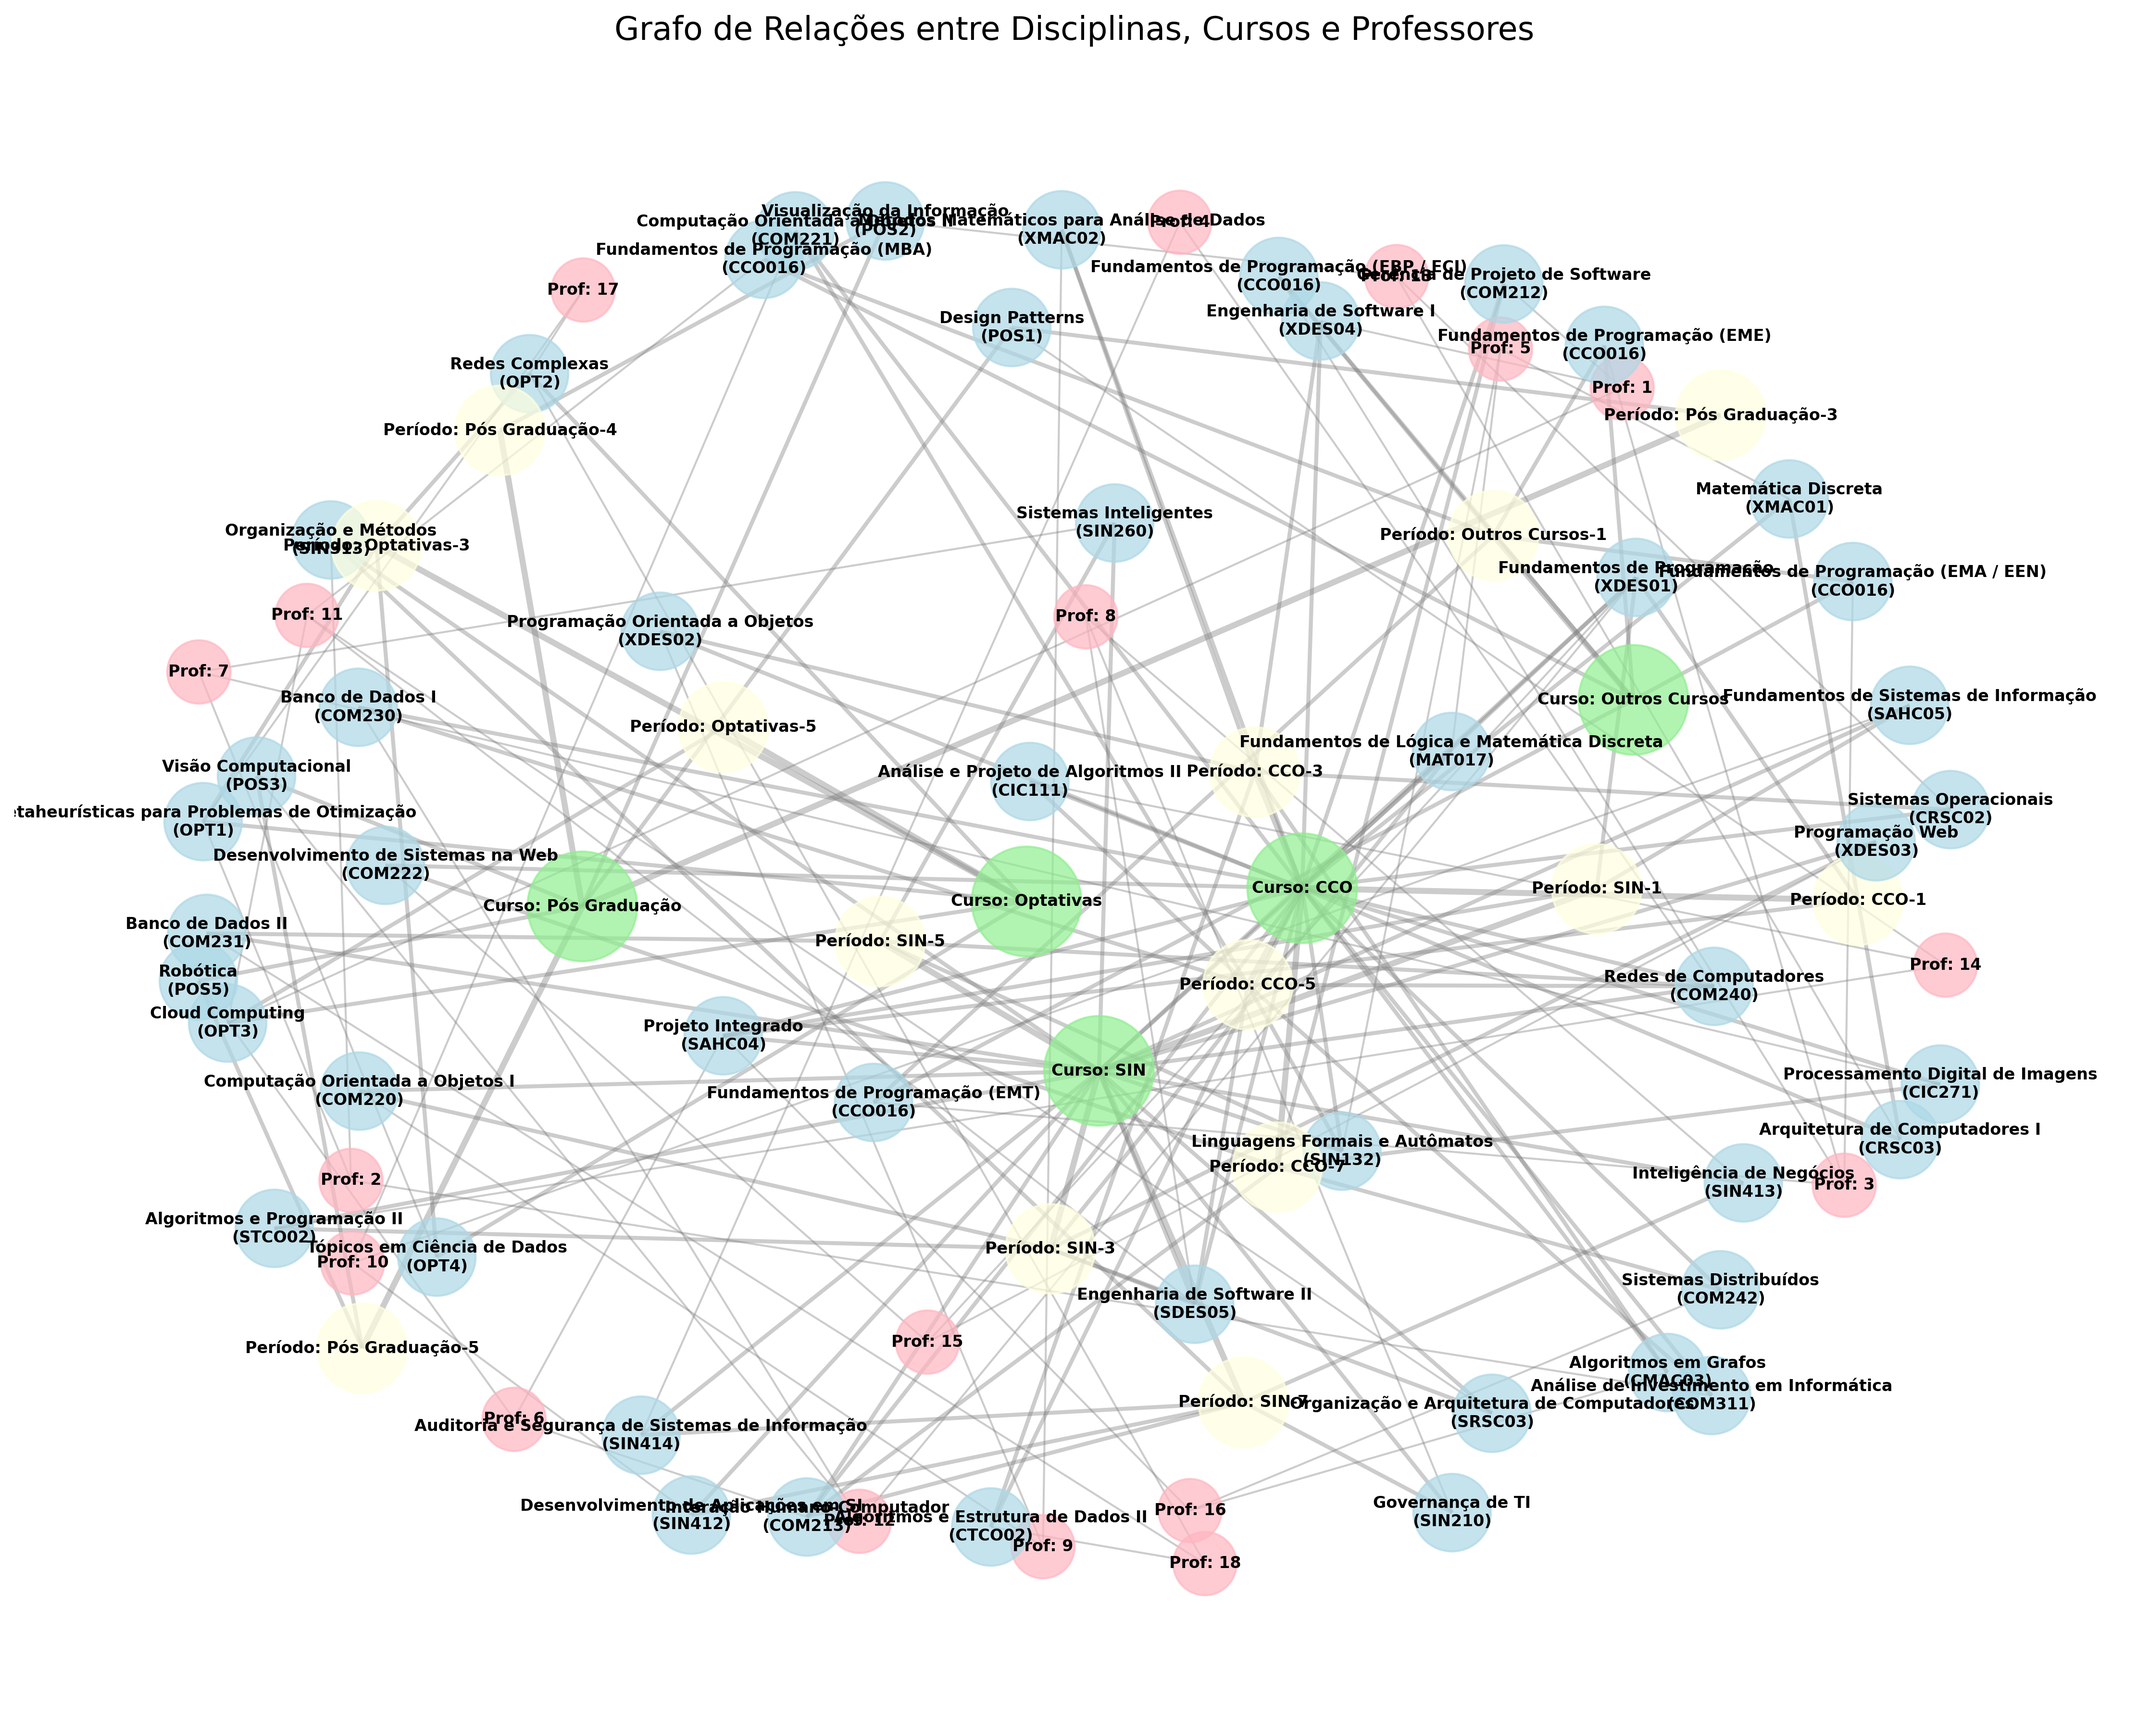
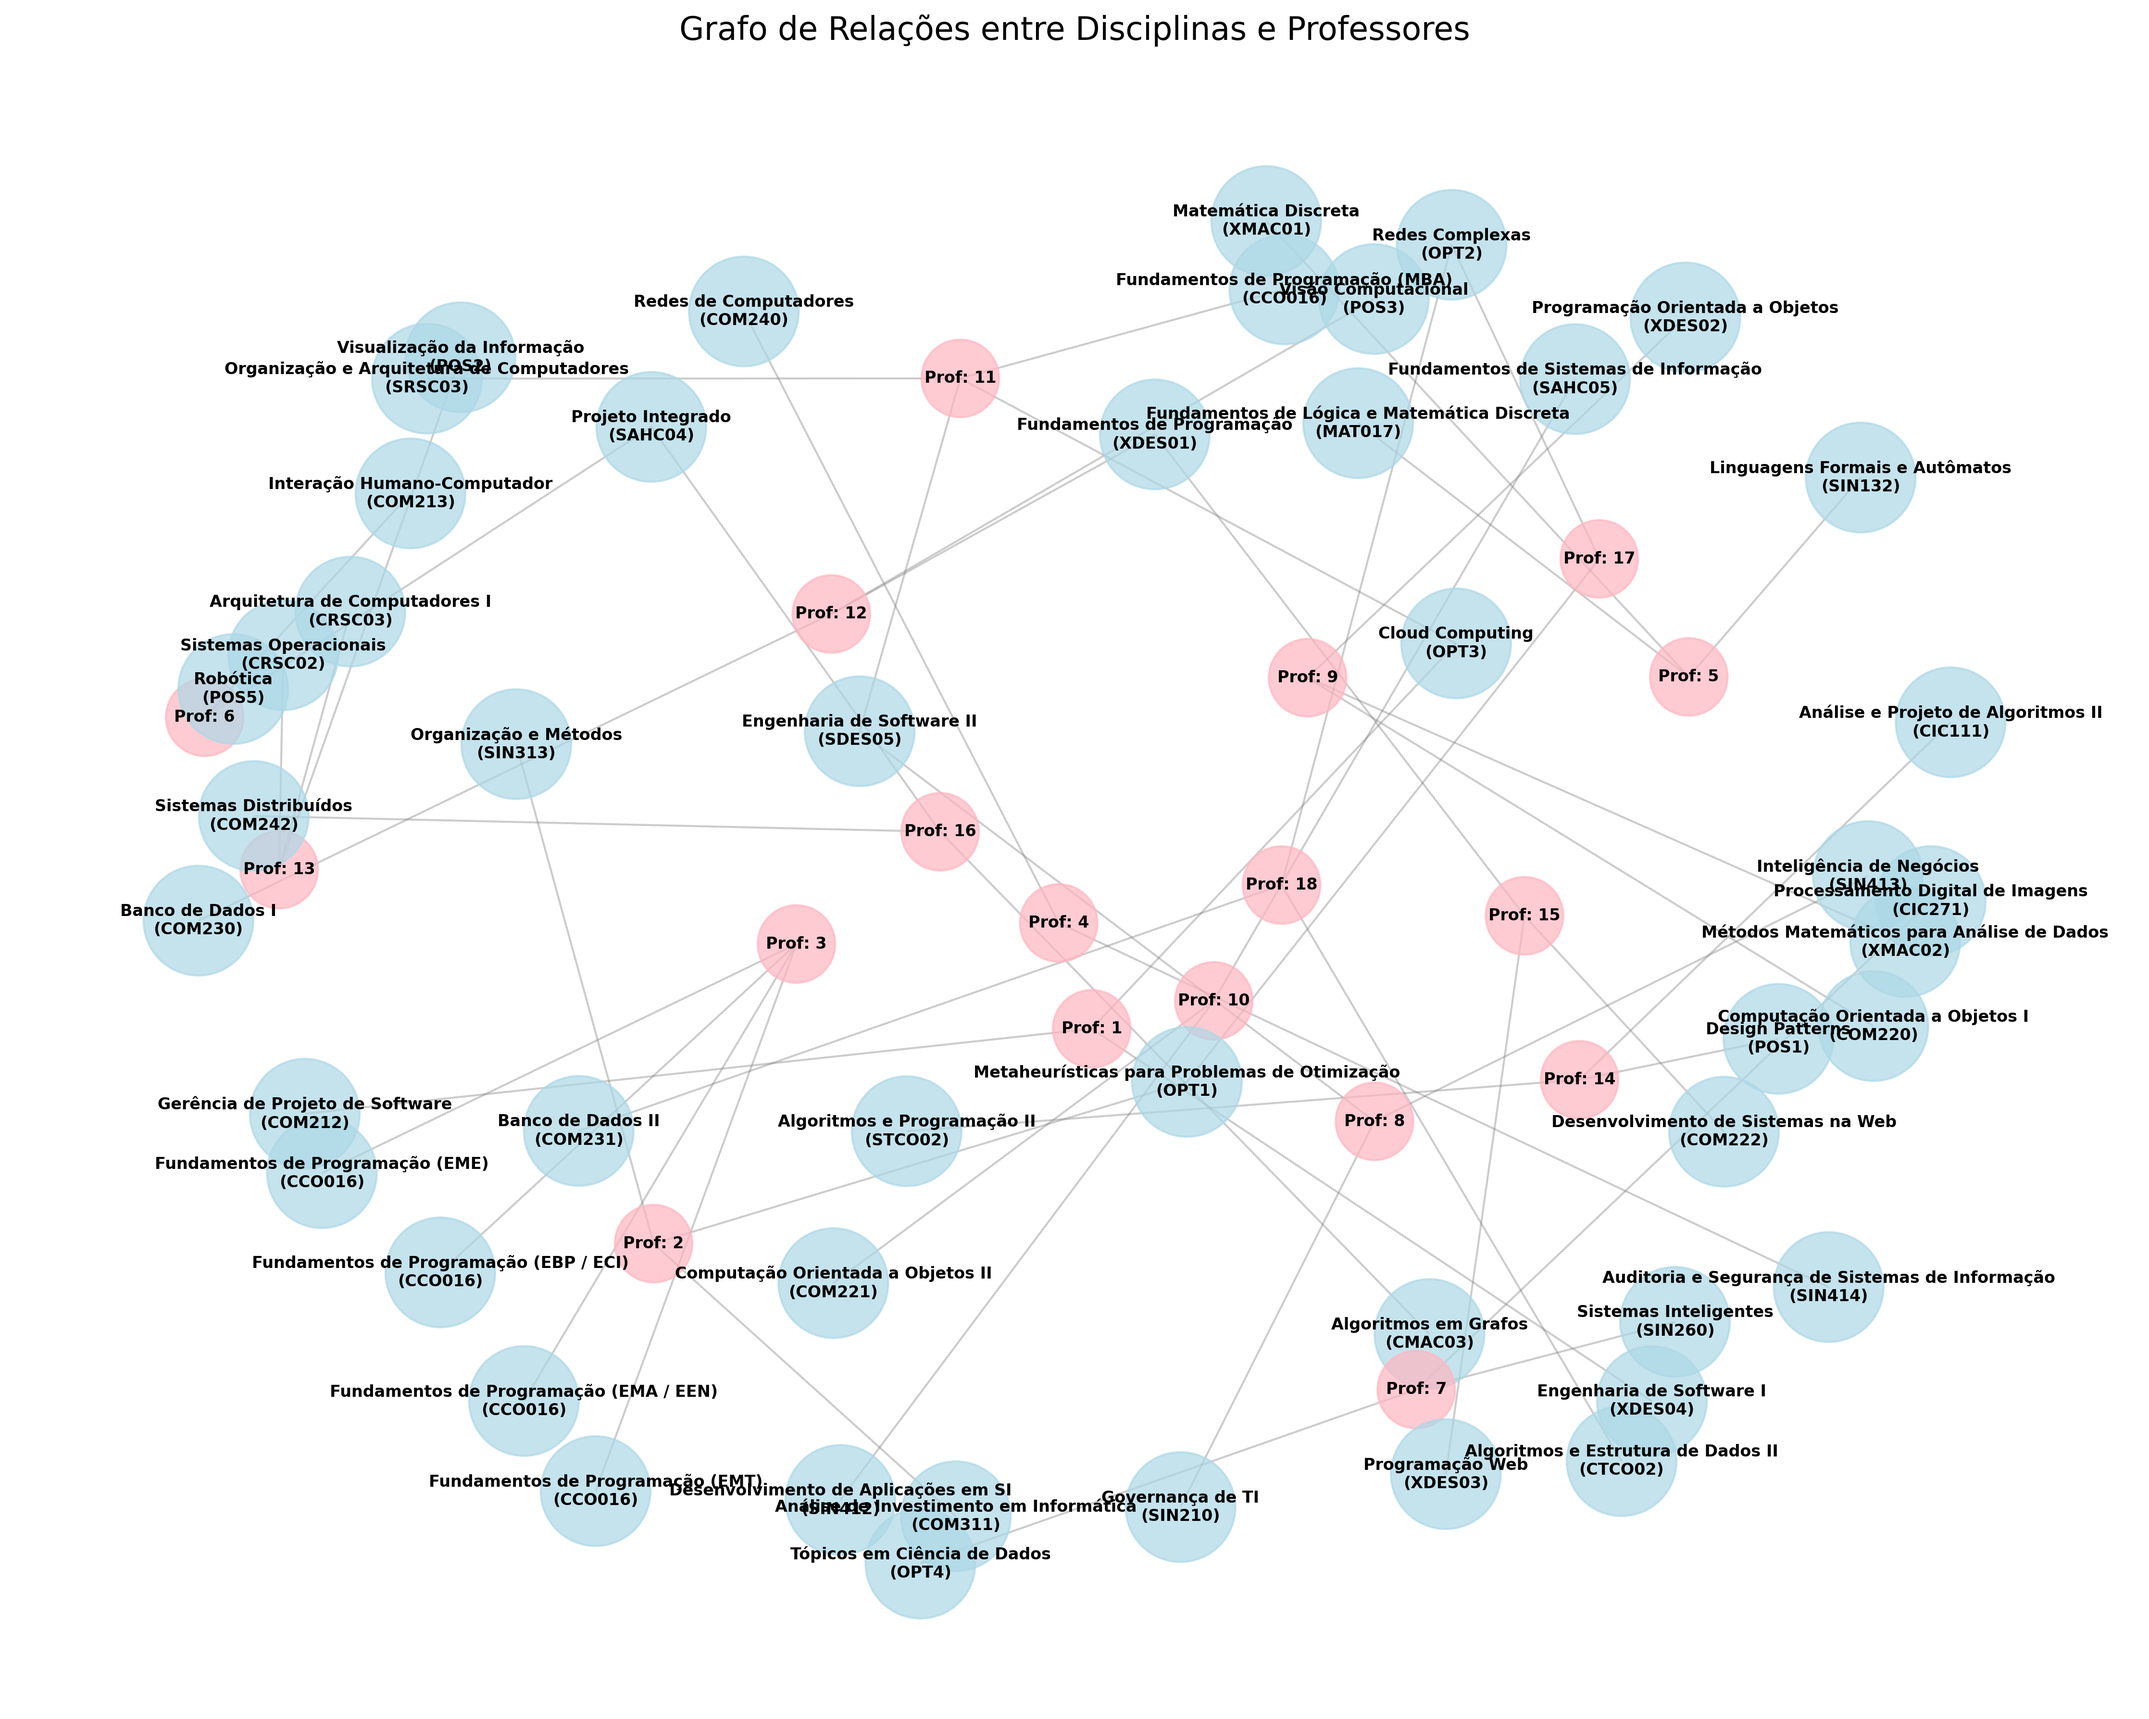
atualiza codigo com grafos

Changed region(s): [[0.0311, 0.0931, 0.964, 0.9625], [0.2799, 0.0, 0.7152, 0.031]]

diff --git a/src/main.py b/src/main.py
@@ -79,17 +79,15 @@ def salvar_grafo_como_imagem(grafo: nx.Graph):
     
     # Use different layout algorithms based on graph size
     if len(grafo) > 50:
-        pos = nx.spring_layout(grafo, k=1.5, iterations=50)
+        pos = nx.spring_layout(grafo, k=0.8, iterations=50)
     else:
         pos = nx.kamada_kawai_layout(grafo)
     
     # Draw nodes by type with different colors
     node_colors = [grafo.nodes[node].get('color', 'gray') for node in grafo.nodes()]
     node_sizes = [
-        3000 if grafo.nodes[node]['type'] == 'curso'
-        else 2000 if grafo.nodes[node]['type'] == 'periodo'
-        else 1500 if grafo.nodes[node]['type'] == 'disciplina'
-        else 1000  # for professors
+        3000 if grafo.nodes[node]['type'] == 'disciplina'
+        else 1500  # for professors
         for node in grafo.nodes()
     ]
     
@@ -125,7 +123,7 @@ def salvar_grafo_como_imagem(grafo: nx.Graph):
         font_weight='bold'
     )
     
-    plt.title("Grafo de Relações entre Disciplinas, Cursos e Professores", 
+    plt.title("Grafo de Relações entre Disciplinas e Professores", 
               fontsize=16, pad=20)
     plt.axis('off')
     plt.tight_layout()
@@ -224,25 +222,6 @@ def criar_grafo_disciplina_curso(nos: List[Disciplina]) -> nx.Graph:
             professors=disciplina.professores
         )
         
-        # Add course node if not exists
-        if disciplina.curso not in cursos:
-            G.add_node(
-                f"Curso: {disciplina.curso}",
-                type='curso',
-                color='lightgreen'
-            )
-            cursos.add(disciplina.curso)
-            
-        # Add period node if not exists
-        periodo_key = f"{disciplina.curso}-{disciplina.periodo}"
-        if periodo_key not in periodos:
-            G.add_node(
-                f"Período: {periodo_key}",
-                type='periodo',
-                color='lightyellow'
-            )
-            periodos.add(periodo_key)
-        
         # Add professor nodes and connect to discipline
         for prof in disciplina.professores:
             prof_node = f"Prof: {prof}"
@@ -252,6 +231,7 @@ def criar_grafo_disciplina_curso(nos: List[Disciplina]) -> nx.Graph:
                     type='professor',
                     color='lightpink'
                 )
+
             # Connect professor to discipline
             G.add_edge(
                 disciplina.nome,
@@ -259,30 +239,6 @@ def criar_grafo_disciplina_curso(nos: List[Disciplina]) -> nx.Graph:
                 weight=1,
                 relationship='teaches'
             )
-        
-        # Connect discipline to course
-        G.add_edge(
-            disciplina.nome,
-            f"Curso: {disciplina.curso}",
-            weight=2,
-            relationship='belongs_to'
-        )
-        
-        # Connect discipline to period
-        G.add_edge(
-            disciplina.nome,
-            f"Período: {disciplina.curso}-{disciplina.periodo}",
-            weight=2,
-            relationship='scheduled_in'
-        )
-        
-        # Connect period to course
-        G.add_edge(
-            f"Período: {disciplina.curso}-{disciplina.periodo}",
-            f"Curso: {disciplina.curso}",
-            weight=3,
-            relationship='part_of'
-        )
     
     return G
 
